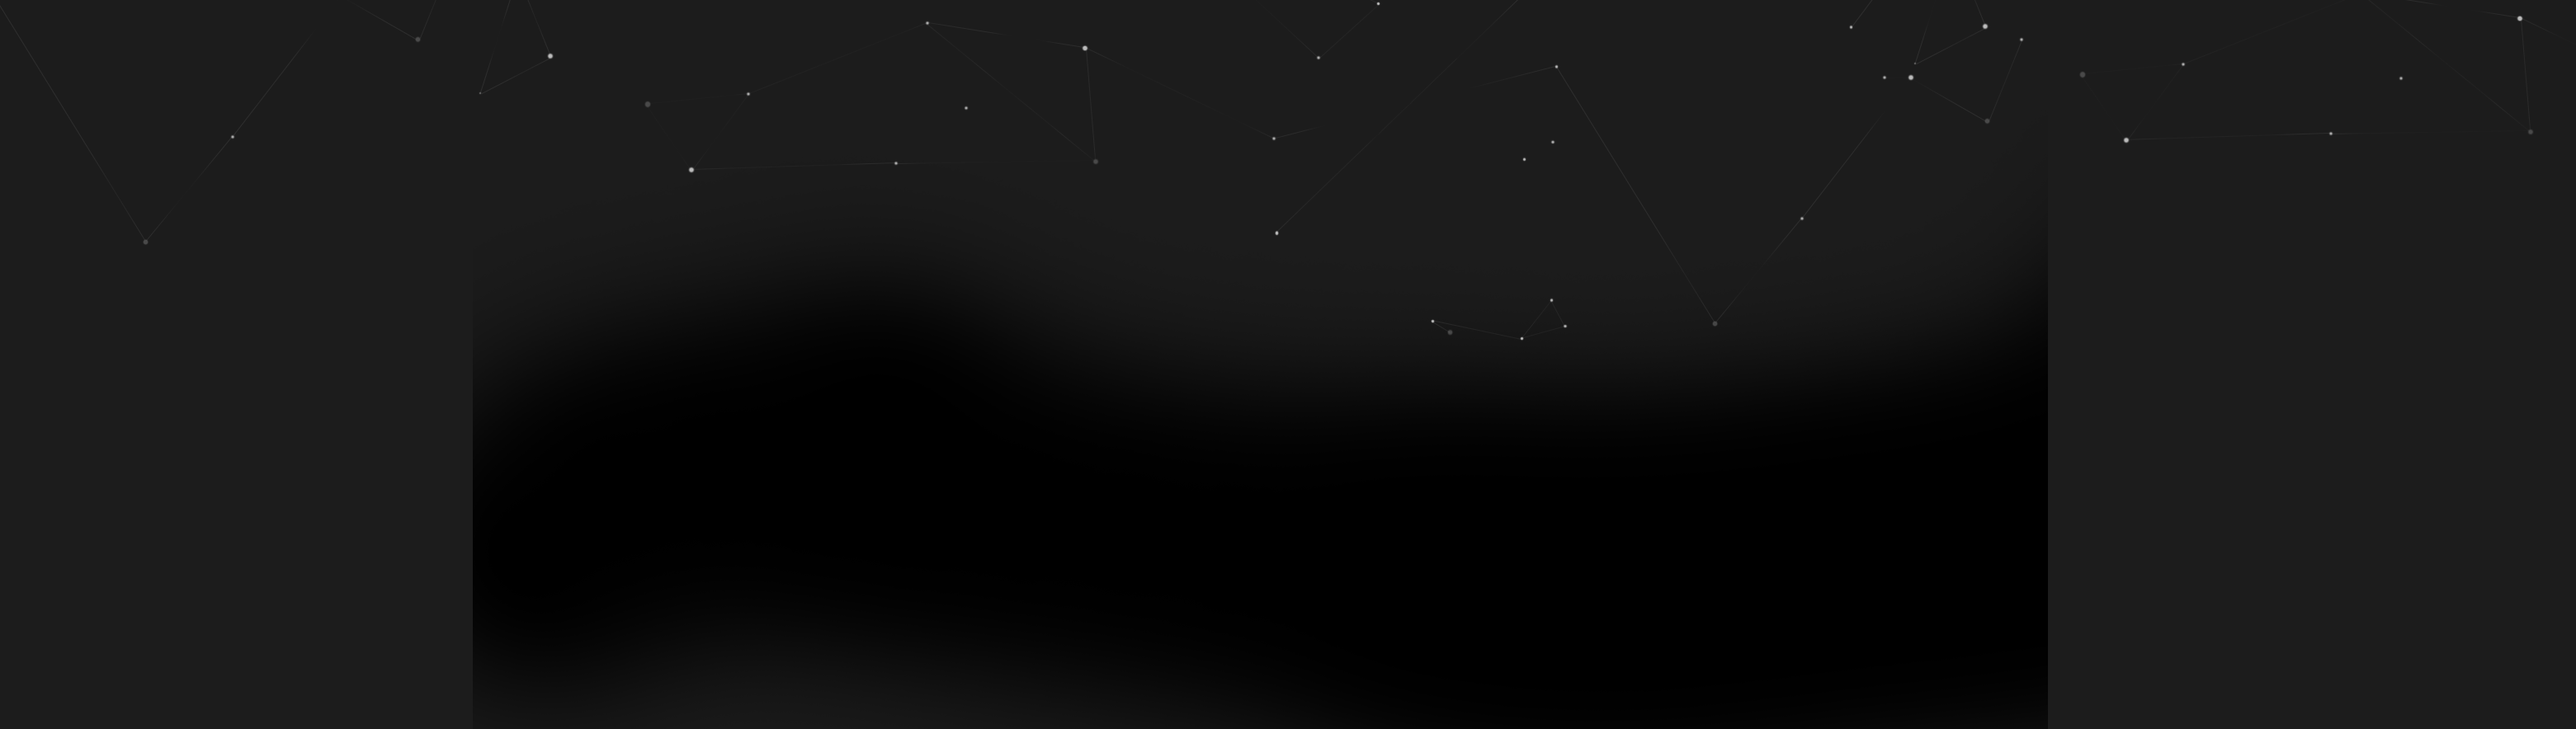
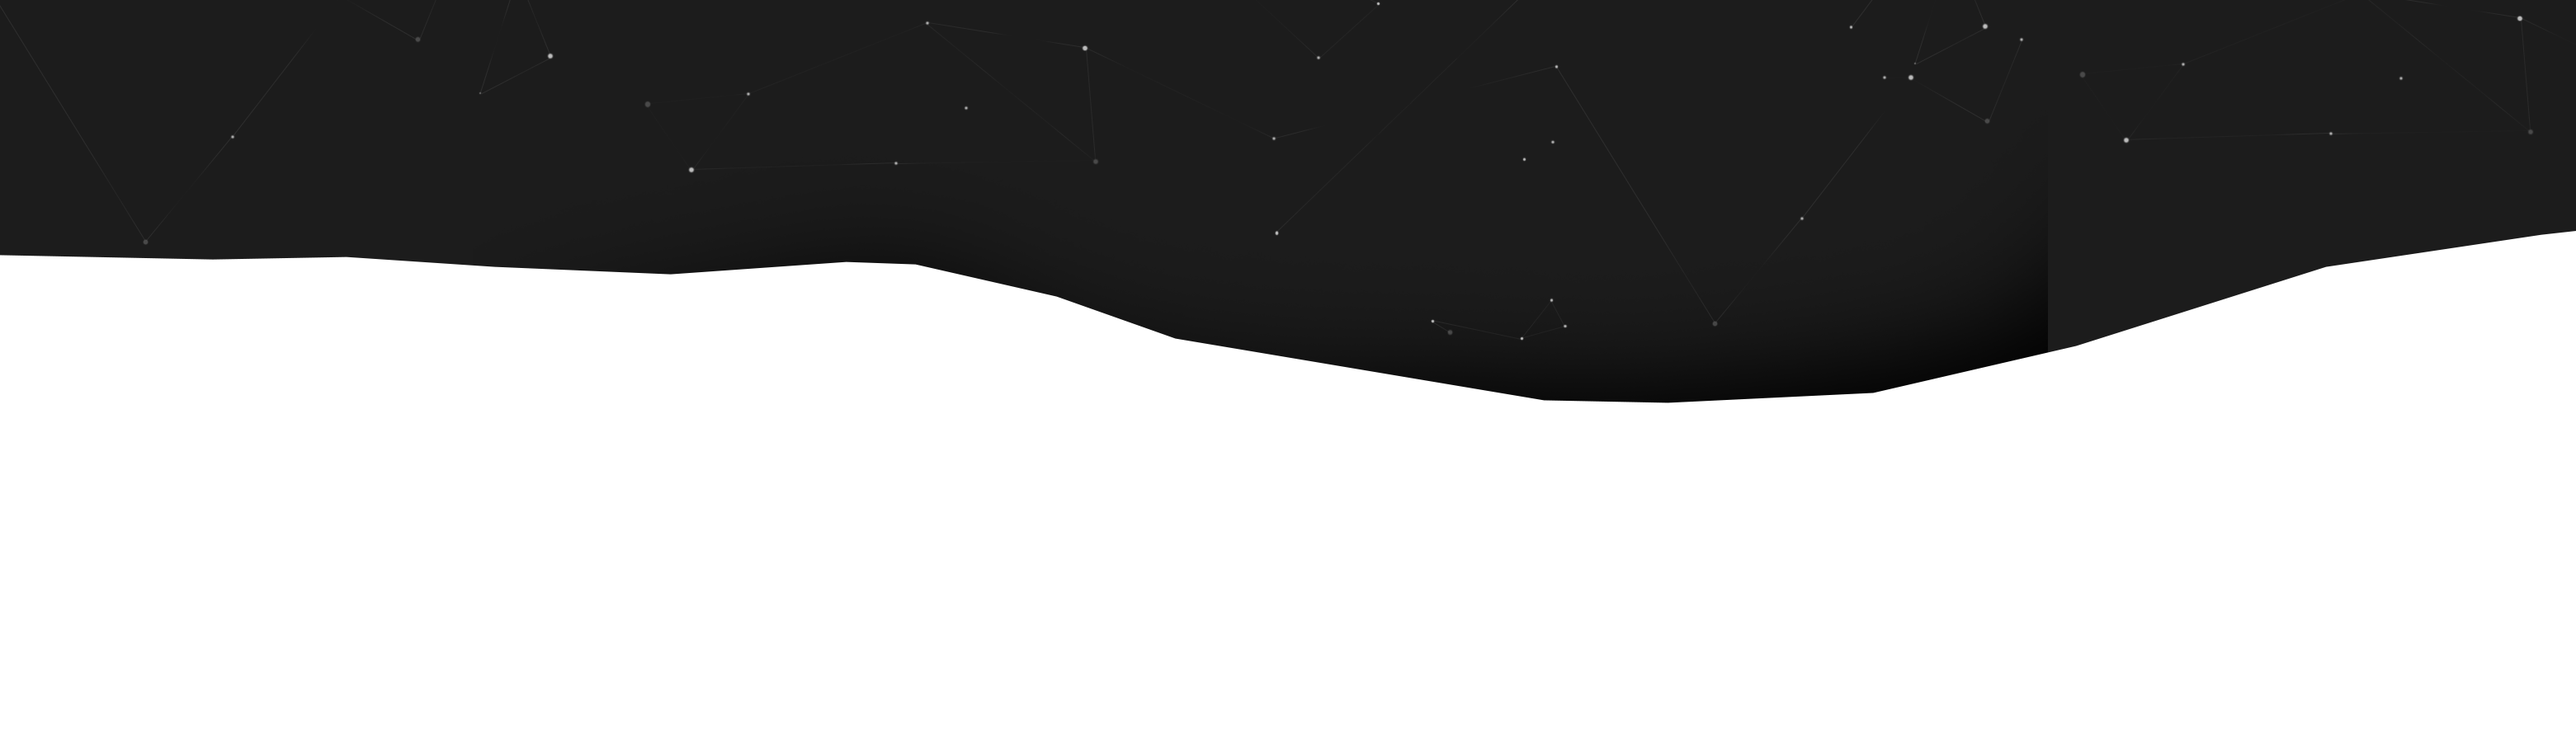
2.2

diff --git a/index.html b/index.html
@@ -34,35 +34,35 @@
 
   </div>
 
-  <div class="ParallaxG">
+  <div class="ParallaxG" style="background: #1C1C1C">
     <div class="ParallaxLayer ParallaxBase">
-        <div class="work">
-          <h1>Work</h1>
-        </div>
-        <div id="DiamondGrid">
-          <a class="w1 diamond"></a>
-          <a class="w2 diamond"></a>
-          <a class="w3 diamond t1">
-            <div>
-              <h3>Ylinor</h3>
-            </div>
-          </a>
-          <a class="w4 diamond t2"></a>
-          <a class="w5 diamond t3"></a>
-          <a class="w6 diamond t4">
-            <div>
-              <h3>Proelium</h3>
-            </div>
-          </a>
-          <a class="w7 diamond t4">
-            <div>
-              <h3>Autres</h3>
-            </div>
-          </a>
-        </div>
-        <div class="transition">
-          <img src="img/transition.png">
-        </div>
+      <div class="work">
+        <h1>Work</h1>
+      </div>
+      <div id="DiamondGrid">
+        <a class="w1 diamond"></a>
+        <a class="w2 diamond"></a>
+        <a class="w3 diamond t1">
+          <div>
+            <h3>Ylinor</h3>
+          </div>
+        </a>
+        <a class="w4 diamond t2"></a>
+        <a class="w5 diamond t3"></a>
+        <a class="w6 diamond t4">
+          <div>
+            <h3>Proelium</h3>
+          </div>
+        </a>
+        <a class="w7 diamond t4">
+          <div>
+            <h3>Autres</h3>
+          </div>
+        </a>
+      </div>
+      <div class="transition">
+        <img src="img/transition.png">
+      </div>
     </div>
   </div>
 
@@ -73,7 +73,7 @@
     <div class="ParallaxLayer ParallaxBase content">
       <div class="services">
         <h1>Mes services</h1>
-        <p>Je suis capable de réalisé :</p>
+        <p>Je suis capable de réaliser :</p>
 
         <div class="content BS">
           <div class="losange l1">
@@ -93,7 +93,7 @@
           </div>
           <div class="losange l4">
             <div>
-              <h3>Site web</h3>
+              <h3>Sites web</h3>
             </div>
           </div>
           <div class="losange l5">
@@ -103,17 +103,15 @@
           </div>
           <div class="losange l6">
             <div>
-              <h3>Identité<br>visuel</h3>
+              <h3>Identité<br>visuelle</h3>
             </div>
           </div>
         </div>
       </div>
     </div>
     <div class="ParallaxLayer servicesB"></div>
+  </div>
 </div>
-
-
-
 
   <!--
 <div class="ParallaxG">
@@ -125,25 +123,9 @@
   </div>
 </div>-->
 
-
-<!--
-<div class="paralax  p10" data-modifier="50"></div>
-<div class="paralax  p92" data-modifier="45"></div>
-<div class="paralax  p9" data-modifier="30"></div>
-<div class="paralax  p8" data-modifier="47"></div>
-<div class="paralax  p7" data-modifier="45"></div>
-<div class="paralax  p6" data-modifier="34"></div>
-<div class="paralax  p5" data-modifier="31"></div>
-<div class="paralax  p4" data-modifier="28"></div>
-<div class="paralax  p3" data-modifier="25"></div>
-<div class="paralax  p2" data-modifier="22"></div>
-<div class="paralax  p1" data-modifier="20"></div>
-<div class="paralax  pp" data-modifier="18"></div> -->
-
-
-
-
 <script src="js/index.js"></script>
+
+
 
 </body>
 </html>

diff --git a/css/style.css b/css/style.css
@@ -15,10 +15,7 @@ a, abbr, acronym, address, applet, article, aside, audio, b, big, blockquote, bo
 body {
   background: #1C1C1C;}
 .page{
-
-    margin-bottom: 20vh; /******************* A supprimer ***********************************************/
-
-    width: 100%;
+        width: 100%;
     margin-top: 50vh;
     z-index: 1;}
 .content{
@@ -75,17 +72,14 @@ ins{text-decoration: underline}/*ligne en dessous*/
     perspective: 1px;
     height: 100vh;
     overflow-x: hidden;
-    overflow-y: auto;
-
-    perspective-origin-x: 100%;}
+    overflow-y: auto;}
 .ParallaxLayer {
     padding: 10vh 0;
 
     top: 0;
     right: 0;
     bottom: 0;
-    left: 0;
-    transform-origin-x: 100%;}
+    left: 0;}
 .ParallaxBase {transform: translateZ(0);}
 .ParallaxBack {transform: translateZ(-1px) scale(2);}
 .ParallaxDeep {transform: translateZ(-2px) scale(3);}
@@ -96,9 +90,7 @@ ins{text-decoration: underline}/*ligne en dessous*/
 
 
 .scene{
-    height: 100vh;
-    z-index: -1;
-    margin-bottom: 35vh;
+    border-bottom: solid 35vh rgb(28,28,28);
 }
 .scene div{
     padding: inherit;
@@ -107,7 +99,7 @@ ins{text-decoration: underline}/*ligne en dessous*/
     position: absolute;
     height: 100vh;
     background-repeat: repeat-x;
-    background-position: center center;
+    background-position: center;
     background-size: auto 100vh;
     width: 100%;
 }
@@ -143,12 +135,10 @@ ins{text-decoration: underline}/*ligne en dessous*/
     width: 19%;
     padding-bottom:19%;
     margin:0.5%;
-    background: #fff;
+    background: #fff center;
+    background-size: cover;
     float:left;
     position:relative;
-
-    background-position:center center;
-    background-size: cover;
 
     -webkit-transition: all 0.25s ease;
     -moz-transition: all 0.25s ease;
@@ -191,7 +181,7 @@ ins{text-decoration: underline}/*ligne en dessous*/
 .diamond:hover{
     width: 20%;
     padding-bottom:20%;
-    margin:0%;}
+    margin:0;}
 .t2:hover{margin-top: 20%}
 .t4:hover, .t1:hover{
     width: 40%;
@@ -216,9 +206,8 @@ ins{text-decoration: underline}/*ligne en dessous*/
     position: absolute;
     margin-left: -50%;
 
-    background-position: center center;
     background-size: cover;
-    background: url(../img/BackgroundServices.png);}
+    background: #1C1C1C url(../img/BackgroundServices.png) center;}
 .services p {text-align: center;}
 .BS{
     margin-top: 150px;
@@ -304,8 +293,8 @@ ins{text-decoration: underline}/*ligne en dessous*/
         margin-top: 24%;
         margin-left: 82%;}
     .l5{
-        margin-left: 35;
-        margin-top: 0%;}
+        margin-left: 35%;
+        margin-top: 0;}
     .l6{
     }
 }
